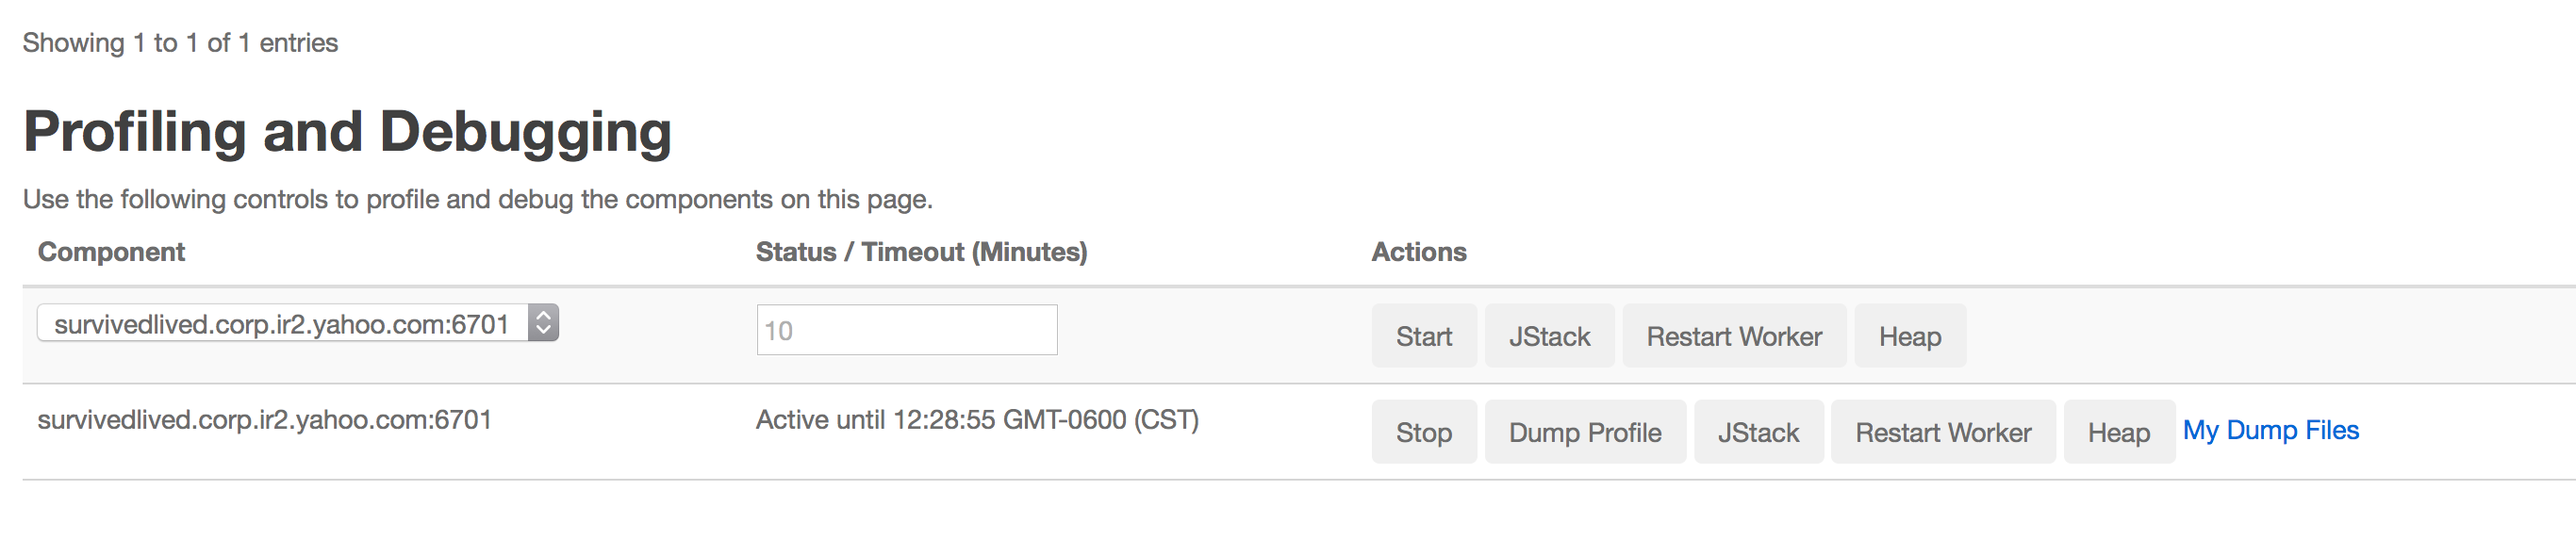
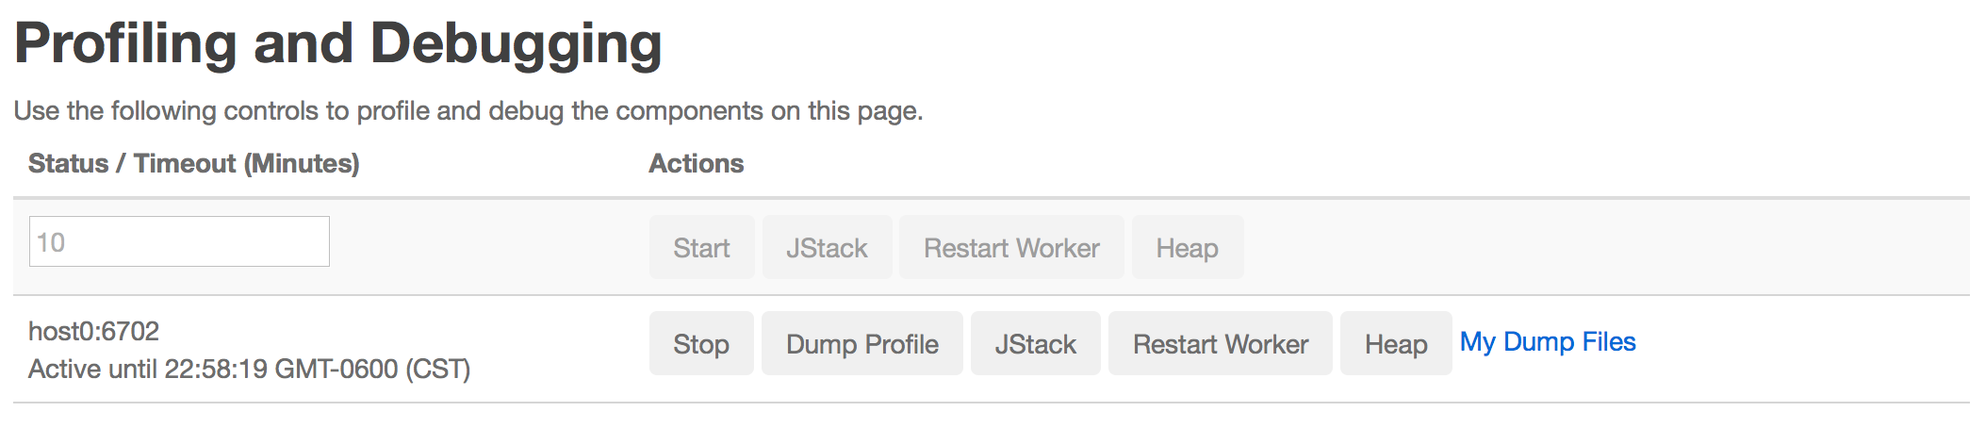
updates profiling docs for action checkboxes & links

diff --git a/docs/documentation/dynamic-worker-profiling.md b/docs/documentation/dynamic-worker-profiling.md
@@ -8,7 +8,11 @@ The storm dynamic profiler lets you dynamically take heap-dumps, jprofile or jst
 Using the Storm UI
 -------------
 
-In order to request for heap-dump, jstack, start/stop/dump jprofile or restart a worker, click on a running topology, then click on specific component, then you can select worker from the dropdown for that particular component and then click on “Start","Heap", "Jstack" or "Restart Worker" in the "Profiing and Debugging" section.
+In order to request for heap-dump, jstack, start/stop/dump jprofile or restart a worker, click on a running topology, then click on specific component, then you can select workers by checking the box of any of the worker's executors in the Executors table, and then click on “Start","Heap", "Jstack" or "Restart Worker" in the "Profiling and Debugging" section.
+
+![Selecting Workers](images/dynamic_profiling_debugging_4.png "Selecting Workers")
+
+In the Executors table, click the checkbox in the Actions column next to any executor, and any other executors belonging to the same worker are automatically selected. When the action has completed, any output files created will available at the link in the Actions column.
 
 ![Profiling and Debugging](images/dynamic_profiling_debugging_1.png "Profiling and Debugging")
 
